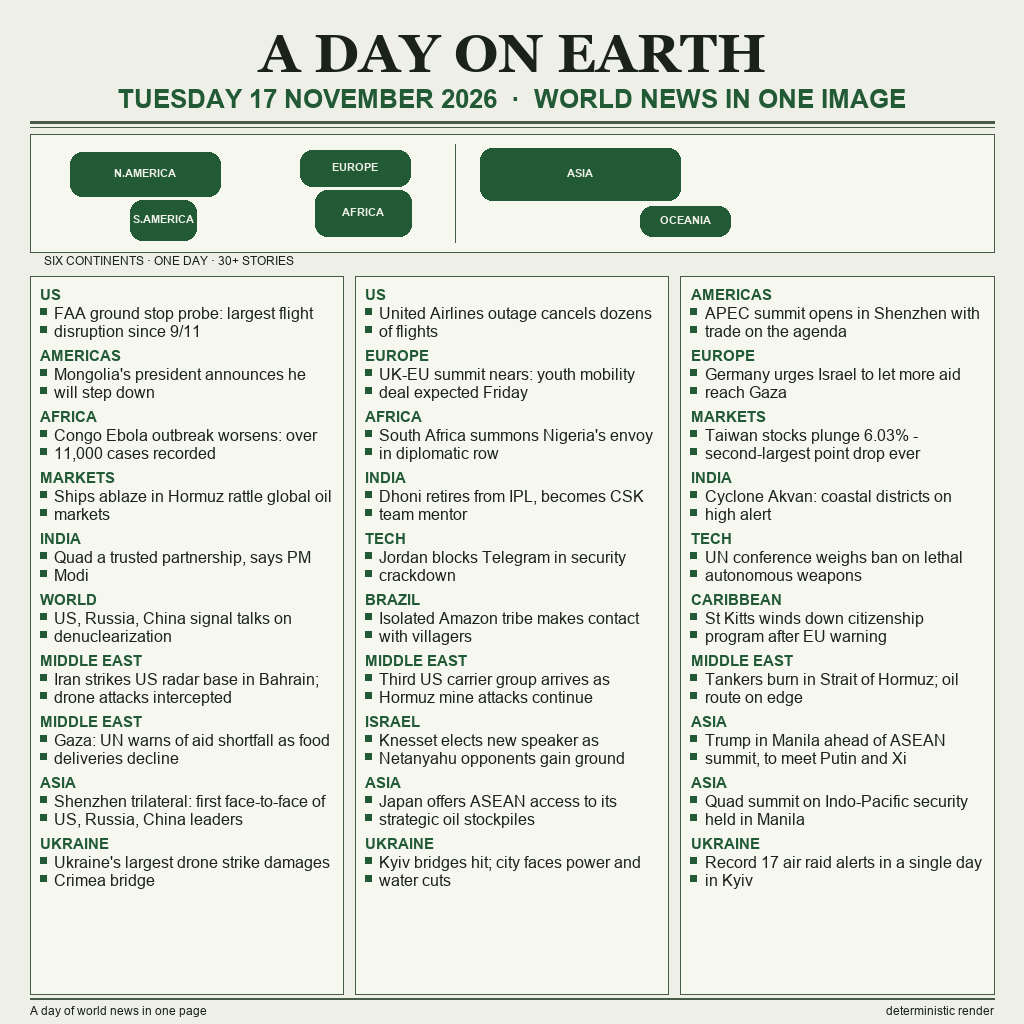
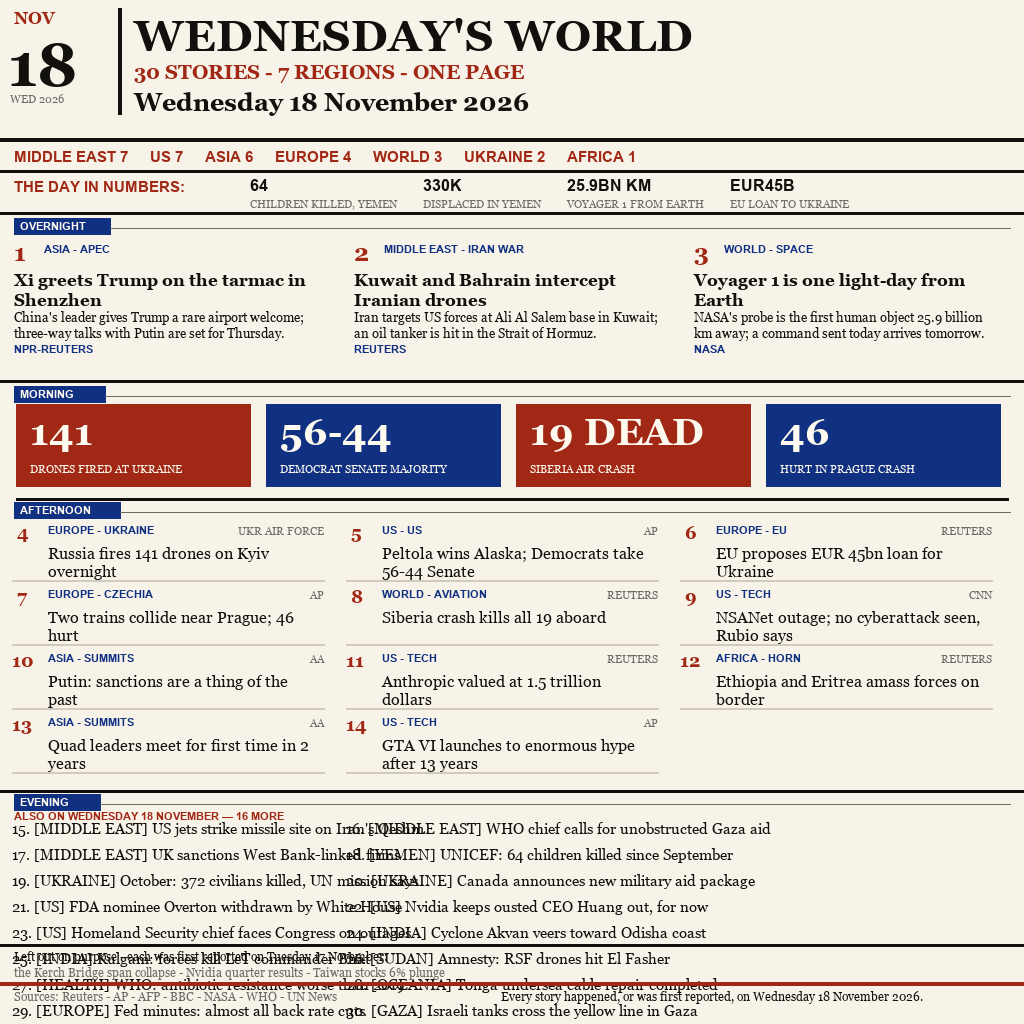
v14 broadsheet entry for news-image-20261118

Changed region(s): [[0.0, 0.0, 1.0, 1.0], [0.9375, 0.5625, 0.9688, 0.5938]]

diff --git a/main.ts b/main.ts
@@ -1,0 +1,27 @@
+// This program copies the pre-rendered entry.png image to the output directory.
+// It serves as the entrypoint for the make.fun image contest submission.
+// The image is a front-page style news poster showing the world's headlines
+// from Wednesday 18 November 2026, featuring a masthead, six-continent map band,
+// and regional headline cards across three columns.
+//
+// Determinism: The program reads a fixed file (entry.png) and writes identical
+// bytes to the output location on every run, producing byte-for-byte identical
+// output regardless of execution order or timing.
+//
+// Network: No network access is required or used. The image is pre-rendered and
+// stored in the repository; the program simply copies it.
+//
+// Output directory: Inside the grading container, the program writes to
+// /output/entry.png. Outside the container, set MAKEFUN_OUTPUT_DIR to override
+// the output path (e.g., for local testing).
+
+import { copyFileSync } from 'node:fs';
+import { join } from 'node:path';
+
+const sourceUrl = new URL('./entry.png', import.meta.url);
+const sourcePath = sourceUrl.pathname;
+
+const outputDir = process.env.MAKEFUN_OUTPUT_DIR || '/output';
+const outputPath = join(outputDir, 'entry.png');
+
+copyFileSync(sourcePath, outputPath);
